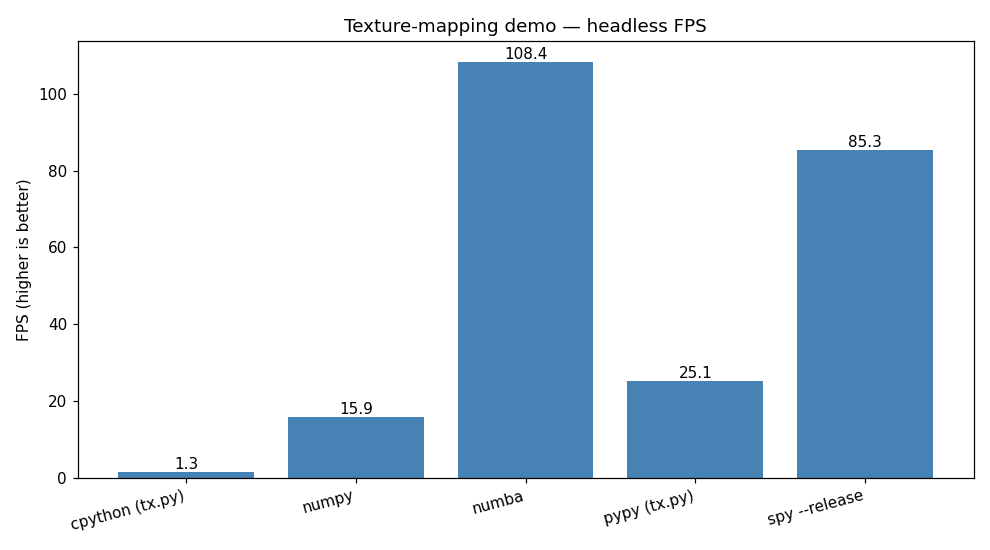
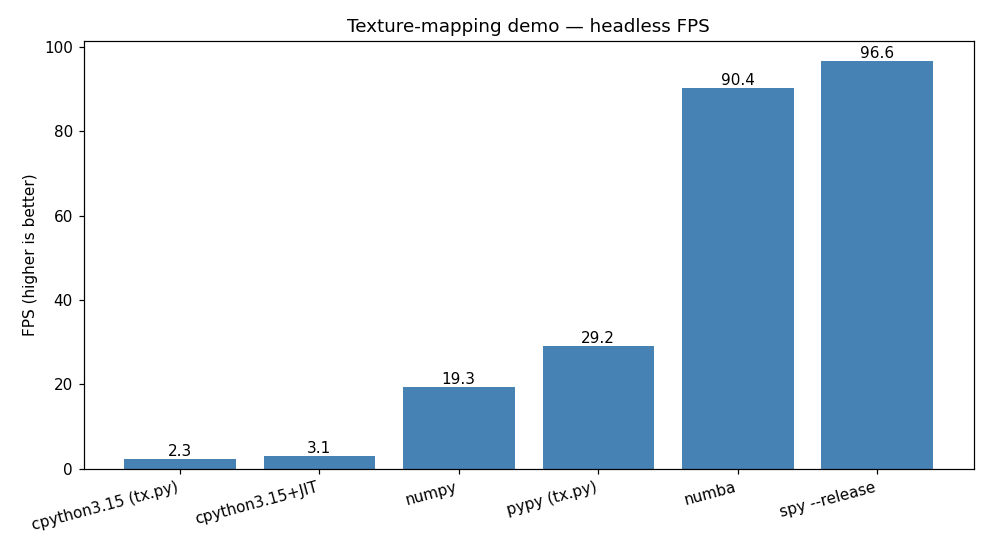
Add cpython3.15+JIT variant to benchmark
Pin numpy/numba variants to Python 3.13 (for prebuilt wheels) and run
pure-Python variants under 3.15 via uv, with an extra row exercising
PYTHON_JIT=1. Regenerate the chart.

Changed region(s): [[0.0, 0.0618, 1.0, 0.9582], [0.3333, 0.0309, 0.7273, 0.0618]]

diff --git a/benchmark_all.py b/benchmark_all.py
@@ -15,20 +15,31 @@ import matplotlib
 matplotlib.use("Agg")
 import matplotlib.pyplot as plt
 
-# Frame counts are per-variant so each run takes a few seconds — the pure-py
-# version is much slower and gets a smaller N.
+# Pure-Python variants run under 3.15 to showcase interpreter progress; the
+# numpy/numba variants need C-extension wheels, so they pin to a stable Python
+# (3.13) that has prebuilt wheels on PyPI. Python variants use PEP 723 inline
+# script metadata to pull in dependencies through `uv run`.
+UV315 = ["uv", "run", "--python", "3.15"]
+UV313 = ["uv", "run", "--python", "3.13"]
+
+# Each entry is (label, cmd, n_frames, extra_env).
 VARIANTS = [
-    ("cpython (tx.py)",   ["python", "tx.py"],                                10),
-    ("numpy",             ["python", "tx_numpy.py"],                         100),
-    ("pypy (tx.py)",      ["pypy",   "tx.py"],                               300),
-    ("numba",             ["python", "tx_numba.py"],                         300),
-    ("spy --release",     ["spy", "build", "--release", "-x", "txspy.spy"],  300),
+    ("cpython3.15 (tx.py)",   UV315 + ["tx.py"],                                     10, {}),
+    ("cpython3.15+JIT",       UV315 + ["tx.py"],                                     10, {"PYTHON_JIT": "1"}),
+    ("numpy",                 UV313 + ["tx_numpy.py"],                              100, {}),
+    ("pypy (tx.py)",          ["pypy", "tx.py"],                                    300, {}),
+    ("numba",                 UV313 + ["tx_numba.py"],                              300, {}),
+    ("spy --release",         ["spy", "build", "--release", "-x", "txspy.spy"],     300, {}),
 ]
 
 
-def run(cmd):
+def run(cmd, extra_env=None):
     devnull = open(os.devnull, "wb")
-    proc = subprocess.run(cmd, stdout=devnull, stderr=subprocess.PIPE)
+    env = None
+    if extra_env:
+        env = dict(os.environ)
+        env.update(extra_env)
+    proc = subprocess.run(cmd, stdout=devnull, stderr=subprocess.PIPE, env=env)
     devnull.close()
     if proc.returncode != 0:
         sys.stderr.write("FAILED: " + " ".join(cmd) + "\n")
@@ -46,9 +57,9 @@ def run(cmd):
 
 def main():
     results = []
-    for name, cmd, n in VARIANTS:
+    for name, cmd, n, extra_env in VARIANTS:
         print("Running %s (n=%d) ..." % (name, n), flush=True)
-        fps = run(cmd + ["-n", str(n)])
+        fps = run(cmd + ["-n", str(n)], extra_env=extra_env)
         results.append((name, fps))
         if fps is not None:
             print("  %.2f FPS" % fps)
